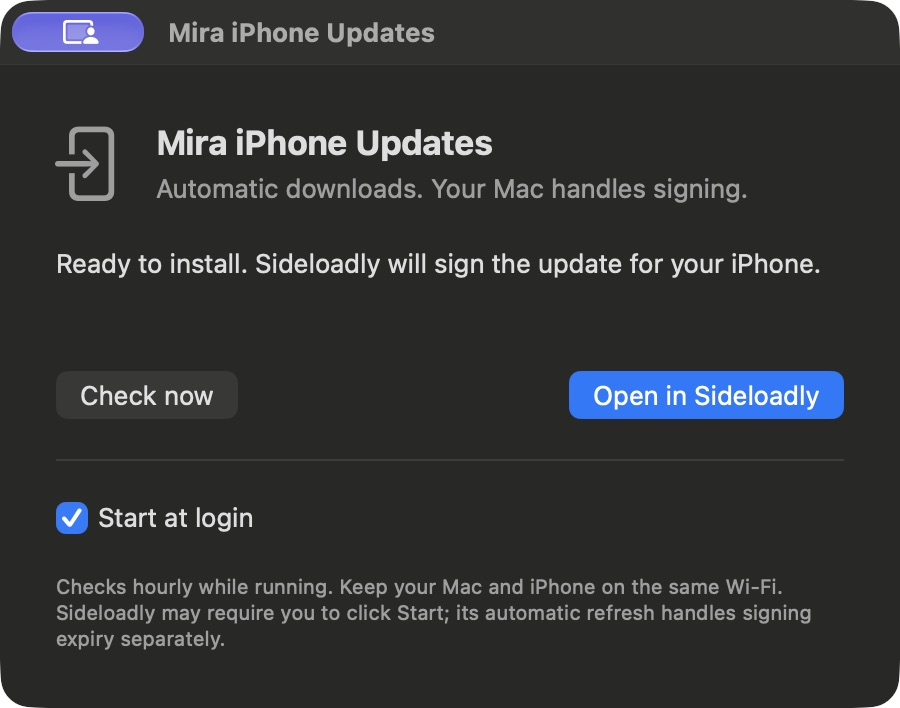
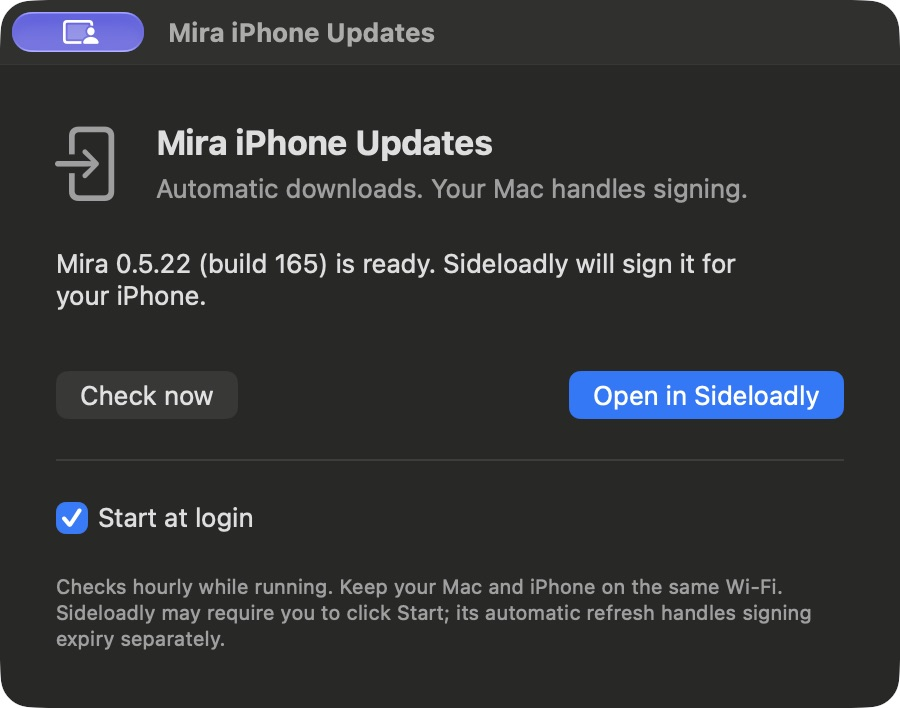
Verify internal IPA versions and correct mislabeled update metadata

Changed region(s): [[0.0622, 0.3418, 0.9022, 0.435]]

diff --git a/companion/MiraPhoneUpdates.swift b/companion/MiraPhoneUpdates.swift
@@ -17,7 +17,7 @@ import ServiceManagement
     }()
     private let folder = FileManager.default.urls(for:.applicationSupportDirectory,in:.userDomainMask)[0].appendingPathComponent("Mira Phone Updates",isDirectory:true)
     func check(force: Bool = false) async {
-        guard !busy else {return}; busy = true; defer {busy = false}
+        guard !busy else {return}; ready = nil; busy = true; defer {busy = false}
         do {
             let item = try await loadArtifact { url in
                 var request = URLRequest(url: url)
@@ -30,7 +30,8 @@ import ServiceManagement
             version=item.version
             let destination=folder.appendingPathComponent("Mira.ipa")
             let downloaded=UserDefaults.standard.integer(forKey:"downloadedBuild")
-            if downloaded > item.build {
+            let actualCachedBuild = await Task.detached { (try? readIPAIdentity(destination).build) ?? 0 }.value
+            if actualCachedBuild > item.build {
                 message="The channel lists an older build. Keeping your newer download; no downgrade was made."
                 return
             }
@@ -38,6 +39,7 @@ import ServiceManagement
                 try cachedDownloadMatches(destination, artifact: item, downloadedBuild: downloaded)
             }.value
             if matches {
+                try await Task.detached { try validateIPA(destination, artifact: item) }.value
                 ready=destination;message="Mira \(item.version) is downloaded and ready to install.";return
             }
             message="Downloading Mira \(item.version)…"
@@ -47,6 +49,7 @@ import ServiceManagement
             guard (downloadResponse as? HTTPURLResponse)?.statusCode == 200 else {throw URLError(.badServerResponse)}
             let actual=try await Task.detached {try checksum(temp)}.value
             guard actual == item.sha256.lowercased() else {throw NSError(domain:"Mira",code:2,userInfo:[NSLocalizedDescriptionKey:"The download checksum did not match. Nothing was installed."])}
+            try await Task.detached { try validateIPA(temp, artifact: item) }.value
             if let expected = item.size {
                 let bytes = try temp.resourceValues(forKeys: [.fileSizeKey]).fileSize
                 guard bytes == Int(expected) else { throw URLError(.badServerResponse) }
@@ -58,7 +61,7 @@ import ServiceManagement
             if FileManager.default.fileExists(atPath:destination.path) {_ = try FileManager.default.replaceItemAt(destination,withItemAt:staging)}
             else {try FileManager.default.moveItem(at:staging,to:destination)}
             UserDefaults.standard.set(item.build,forKey:"downloadedBuild")
-            ready=destination;message="Ready to install. Sideloadly will sign the update for your iPhone."
+            ready=destination;message="Mira \(item.version) (build \(item.build)) is ready. Sideloadly will sign it for your iPhone."
         } catch {message=error.localizedDescription}
     }
     func install() {

diff --git a/companion/UpdateFeed.swift b/companion/UpdateFeed.swift
@@ -58,6 +58,51 @@ func cachedDownloadMatches(_ file: URL, artifact: Artifact, downloadedBuild: Int
     }
     return try checksum(file) == artifact.sha256.lowercased()
 }
+
+struct IPAIdentity { let identifier: String; let build: Int; let version: String }
+private func zipOutput(_ arguments: [String]) throws -> Data {
+    let process = Process()
+    process.executableURL = URL(fileURLWithPath: "/usr/bin/unzip")
+    process.arguments = arguments
+    let pipe = Pipe()
+    process.standardOutput = pipe
+    process.standardError = FileHandle.nullDevice
+    try process.run()
+    var output = Data()
+    while let chunk = try pipe.fileHandleForReading.read(upToCount: 65536), !chunk.isEmpty {
+        output.append(chunk)
+        if output.count > 4 * 1024 * 1024 {
+            process.terminate(); process.waitUntilExit()
+            throw URLError(.cannotParseResponse)
+        }
+    }
+    process.waitUntilExit()
+    guard process.terminationStatus == 0 else { throw URLError(.cannotParseResponse) }
+    return output
+}
+func readIPAIdentity(_ file: URL) throws -> IPAIdentity {
+    let listing = try zipOutput(["-Z1", file.path])
+    let entries = String(decoding: listing, as: UTF8.self).split(separator: "\n").map(String.init).filter {
+        let parts = $0.split(separator: "/")
+        return parts.count == 3 && parts[0] == "Payload" && parts[1].hasSuffix(".app") && parts[2] == "Info.plist"
+    }
+    guard entries.count == 1 else { throw URLError(.cannotParseResponse) }
+    let data = try zipOutput(["-p", file.path, entries[0]])
+    let value = try PropertyListSerialization.propertyList(from: data, format: nil) as? [String: Any]
+    guard let identifier = value?["CFBundleIdentifier"] as? String,
+          let version = value?["CFBundleShortVersionString"] as? String,
+          let buildString = value?["CFBundleVersion"] as? String,
+          let build = Int(buildString), build > 0 else { throw URLError(.cannotParseResponse) }
+    return IPAIdentity(identifier: identifier, build: build, version: version)
+}
+func validateIPA(_ file: URL, artifact: Artifact) throws {
+    let identity = try readIPAIdentity(file)
+    guard identity.identifier == "com.nuvio.media", identity.build == artifact.build,
+          identity.version == artifact.version else {
+        throw NSError(domain: "Mira", code: 4, userInfo: [NSLocalizedDescriptionKey:
+            "The published IPA’s app identity or internal version disagrees with the update feed. Nothing was installed. Check again after the channel is corrected."])
+    }
+}
 func checksum(_ file: URL) throws -> String {
     let handle = try FileHandle(forReadingFrom:file); defer {try? handle.close()}
     var hash = SHA256()

diff --git a/companion/FeedChecks.swift b/companion/FeedChecks.swift
@@ -72,6 +72,32 @@ do {
     }
     fatalError("missing feed accepted")
 } catch { checks += 1 }
+let fixtureRoot = FileManager.default.temporaryDirectory.appendingPathComponent(UUID().uuidString)
+defer { try? FileManager.default.removeItem(at: fixtureRoot) }
+let contents = fixtureRoot.appendingPathComponent("Payload/Mira.app")
+try FileManager.default.createDirectory(at: contents, withIntermediateDirectories: true)
+let ipa = fixtureRoot.appendingPathComponent("fixture.ipa")
+func makeIPA(identifier: String = "com.nuvio.media", build: Int = 166, version: String = "0.5.21") throws {
+    try? FileManager.default.removeItem(at: ipa)
+    let data = try PropertyListSerialization.data(fromPropertyList: [
+        "CFBundleIdentifier": identifier, "CFBundleVersion": String(build),
+        "CFBundleShortVersionString": version
+    ], format: .binary, options: 0)
+    try data.write(to: contents.appendingPathComponent("Info.plist"))
+    let zip = Process(); zip.executableURL = URL(fileURLWithPath: "/usr/bin/zip")
+    zip.arguments = ["-q", "-r", ipa.path, "Payload"]; zip.currentDirectoryURL = fixtureRoot
+    try zip.run(); zip.waitUntilExit(); assert(zip.terminationStatus == 0)
+}
+try makeIPA()
+try validateIPA(ipa, artifact: artifact); checks += 1
+for value in [("com.other.app", 166, "0.5.21"), ("com.nuvio.media", 164, "0.5.21"), ("com.nuvio.media", 166, "0.5.19")] {
+    try makeIPA(identifier: value.0, build: value.1, version: value.2)
+    do { try validateIPA(ipa, artifact: artifact); fatalError("wrong IPA accepted") }
+    catch { checks += 1 }
+}
+try Data("not a ZIP".utf8).write(to: ipa)
+do { _ = try readIPAIdentity(ipa); fatalError("invalid archive accepted") }
+catch { checks += 1 }
 print("Passed \(checks) companion feed/checksum checks")
 }
 }

diff --git a/tools/check-release-channel.py b/tools/check-release-channel.py
@@ -4,6 +4,9 @@ import json
 import re
 import subprocess
 import tempfile
+import hashlib
+import plistlib
+import zipfile
 from pathlib import Path
 
 REPO = "4marawan001/Mira"
@@ -53,6 +56,23 @@ def main():
         artifact = feed["artifacts"][platform]
         verify_artifact(artifact, releases)
         print(f"Verified {platform}: {artifact['version']} / {artifact['build']}")
+    # Asset labels and even valid checksums cannot prove the app's internal version.
+    ios = feed["artifacts"]["ios"]
+    tag, name = ios["url"].rsplit("/", 2)[-2:]
+    with tempfile.TemporaryDirectory() as folder:
+        gh("release", "download", tag, "--repo", REPO, "--pattern", name, "--dir", folder)
+        package = Path(folder) / name
+        assert hashlib.sha256(package.read_bytes()).hexdigest() == ios["sha256"]
+        with zipfile.ZipFile(package) as archive:
+            entries = [n for n in archive.namelist() if len(n.split("/")) == 3
+                       and n.startswith("Payload/") and n.endswith(".app/Info.plist")]
+            assert len(entries) == 1, "Ambiguous IPA app identity"
+            assert archive.getinfo(entries[0]).file_size < 4 * 1024 * 1024
+            info = plistlib.loads(archive.read(entries[0]))
+            assert info["CFBundleIdentifier"] == "com.nuvio.media", "Wrong iPhone app"
+            assert str(info["CFBundleVersion"]) == str(ios["build"]), "IPA build number mismatch"
+            assert info["CFBundleShortVersionString"] == ios["version"], "IPA version mismatch"
+    print("Verified iPhone internal bundle identity and version")
     tv = feed["artifacts"]["firetv"]
     assert tv["url"].split("/")[-2] == latest["tag_name"], "Latest must contain the current TV APK"
     assert tv["url"].split("/")[-1] in names, "Latest TV asset is missing"

diff --git a/docs/AUDIT-2026-10-14.md b/docs/AUDIT-2026-10-14.md
@@ -2,16 +2,16 @@
 
 ## Fixed and live
 
-The screenshot’s “update channel has not been published yet” error came from GitHub Latest pointing at an IPA-only release without `mira-updates.json`. Restored TV v0.5.22 as Latest and verified the shared manifest against every referenced GitHub artifact’s SHA-256 digest and size, including both Mac architectures. The channel currently lists iPhone 166, Mac 165 and Fire TV 167.
+The screenshot’s “update channel has not been published yet” error came from GitHub Latest pointing at an IPA-only release without `mira-updates.json`. Restored TV v0.5.22 as Latest and verified the shared manifest against every referenced GitHub artifact’s SHA-256 digest and size, including both Mac architectures. The channel currently lists iPhone 165, Mac 165 and Fire TV 167.
 
-The rebuilt **Mira iPhone Updates helper 1.1.0 / 168** is universal ARM64/x86_64, macOS 13+. It:
+The rebuilt **Mira iPhone Updates helper 1.1.1 / 169** is universal ARM64/x86_64, macOS 13+. It:
 
 - Falls back to a published manifest if Latest has no manifest, excluding drafts, prereleases and untrusted locations.
-- Uses fresh network requests and rechecks cached IPA size/hash before offering installation.
-- Rejects incorrect download hashes, malformed feeds and older builds than its own newer cached download.
+- Uses fresh network requests and rechecks cached IPA size/hash before offering installation. It also reads the IPA’s internal bundle ID, version and build rather than trusting release labels.
+- Rejects incorrect download hashes, malformed feeds and older builds than its actually newer cached download.
 - Removes failed temporary downloads and verifies a new IPA before replacing the cached one.
 
-The helper was installed in Applications and opened on the development Mac. Its UI showed **Ready to install**, with Start at login still enabled. It did not trigger Sideloadly signing or install anything on the physical iPhone. [Helper ZIP](https://github.com/4marawan001/Mira/releases/download/v0.5.22/Mira-iPhone-Updates-macOS.zip) · [Source](../companion).
+The helper was installed in Applications and opened on the development Mac. Its UI showed **Ready to install**, with Start at login still enabled. It did not trigger Sideloadly signing or install anything on the physical iPhone. [Helper ZIP](https://github.com/4marawan001/Mira/releases/download/v0.5.22/Mira-iPhone-Updates-1.1.1-macOS.zip) · [Source](../companion).
 
 ## iPhone source fixes, pending a new IPA
 
@@ -25,7 +25,7 @@ The separate **v0.5.23** GitHub release’s IPA was inspected directly. It conta
[1 lines of base64/hex data omitted]
 ```
 
-Its build number is lower than the preceding iPhone 166 package. The old title and unmeasured “0ms” claims were corrected; the binary was not overwritten. If that package is already installed, keep it rather than switching solely because of the version table. Its source changes remain in the working checkout.
+A later direct inspection also found that the asset advertised as iPhone 166 in v0.5.21 actually contains **0.5.19 / build 164**, even though its SHA-256 matches the old manifest. The stable manifest now points at the verified v0.5.23 IPA with its actual **0.5.22 / 165** identity. This is why helper 1.1.1 validates the internal plist as well as the hash. The previous “166” label did not describe the binary. The old title and unmeasured “0ms” claims were corrected; the binary was not overwritten. If that package is already installed, keep it rather than switching solely because of the version table. Its source changes remain in the working checkout.
 
 The next iPhone source version is **0.5.24 / 168**, with the lookup retained and the cache/query fixes above. This is a **Debug simulator preview**, not a published Release IPA. Local development instructions require reviewing the preview before final IPA packaging. The audit does not label source changes as already installed on the physical phone.
 
@@ -38,13 +38,13 @@ The next iPhone source version is **0.5.24 / 168**, with the lookup retained and
 | iPhone production-logic harness | 118 passed, 0 failed | Catalog/parser/search paging, 1,200 synthetic results, startup/PIN routing, stream ranking/decoder policy, cache isolation and late responses. |
 | Mac selected regression suite | 53 passed, 0 failed | Quality modes, codec policy, static browsing migration, release feed and real temporary-app installer/rejection checks. |
 | Fire TV selected regression suite | 49 passed, 0 failed | Device-aware ranking, autoplay, focus, search concurrency/pagination and update verification. |
-| Mac helper | 21 passed, 0 failed | Feed validation, missing-Latest fallback, HTTP errors, checksum integrity and corrupt-cache rejection. |
+| Mac helper | 26 passed, 0 failed | Feed validation, missing-Latest fallback, HTTP errors, checksum integrity, corrupt-cache rejection and real ZIP/plist identity/version mismatch cases. |
 | Live helper feed | Passed | Trusted iPhone download/version read from restored feed. |
-| Shared channel validator | Passed | Every platform artifact digest/size and Latest TV APK checked. |
+| Shared channel validator | Passed | Every platform artifact digest/size, the Latest TV APK, and the downloaded IPA’s internal identity/version checked. |
 | Helper package | Passed | ARM64 + x86_64 executable, strict ad-hoc signature verification. |
 | Source archive and patch | Passed | 1,684 source files, 43 changes from build 155; ZIP integrity and applied-patch comparison. |
 
-Selected suites total **241 passing tests**. The lightweight iPhone harness compiles production logic with test transport/service stubs; it is not a full Compose UI, native playback or real-provider test. The actual Debug iPhone app (internal version 0.5.24 / 168) was also compiled and opened in the dedicated 375×812-point iPhone 12 mini simulator for visual checks. Home, Search and opening an ordinary person profile were checked; this does not establish complete provider results or physical-phone performance.
+Selected suites total **246 passing tests**. The lightweight iPhone harness compiles production logic with test transport/service stubs; it is not a full Compose UI, native playback or real-provider test. The actual Debug iPhone app (internal version 0.5.24 / 168) was also compiled and opened in the dedicated 375×812-point iPhone 12 mini simulator for visual checks. Home, Search and opening an ordinary person profile were checked; this does not establish complete provider results or physical-phone performance.
 
 ## Remaining checks and known issues
 

diff --git a/README.md b/README.md
@@ -3,7 +3,7 @@
 <p align="center">Your media, with room to breathe.</p>
 <p align="center">iPhone · Apple Silicon & Intel Mac · Fire TV</p>
 <p align="center">
-  <img src="https://img.shields.io/badge/iPhone-166-9fabbc?style=flat-square" alt="iPhone stable build 166" />
+  <img src="https://img.shields.io/badge/iPhone-165-9fabbc?style=flat-square" alt="iPhone stable build 165" />
   <img src="https://img.shields.io/badge/Mac-165-9fabbc?style=flat-square" alt="Mac build 165" />
   <img src="https://img.shields.io/badge/Fire_TV-167-9fabbc?style=flat-square" alt="Fire TV build 167" />
   <img src="https://img.shields.io/badge/status-personal_testing-242830?style=flat-square" alt="Personal testing builds" />
@@ -18,15 +18,15 @@
 
 | Device | Release package | Version | Setup |
 | --- | --- | --- | --- |
-| iPhone | [IPA](https://github.com/4marawan001/Mira/releases/download/v0.5.21/Mira-ios-166.ipa) | 0.5.21 / 166 | Sign with Sideloadly; iOS 16.1+. |
+| iPhone | [IPA](https://github.com/4marawan001/Mira/releases/download/v0.5.23/Mira.ipa) | 0.5.22 / 165 | Sign with Sideloadly; iOS 16.1+. |
 | Apple Silicon Mac | [ARM64 DMG](https://github.com/4marawan001/Mira/releases/download/v0.5.20/Mira-macOS-arm64.dmg) | 0.5.20 / 165 | macOS 12+. |
 | Intel Mac | [Intel DMG](https://github.com/4marawan001/Mira/releases/download/v0.5.20/Mira-macOS-x86_64.dmg) | 0.5.20 / 165 | macOS 12+. |
 | Fire TV | [Universal APK](https://github.com/4marawan001/Mira/releases/download/v0.5.22/Mira-FireTV-universal.apk) | 0.5.22 / 167 | Android-based Fire TV, API 24+. |
-| iPhone update helper for Mac | [Universal Mac ZIP](https://github.com/4marawan001/Mira/releases/download/v0.5.22/Mira-iPhone-Updates-macOS.zip) | Helper 1.1.0 / 168 | Apple Silicon or Intel; macOS 13+. |
+| iPhone update helper for Mac | [Universal Mac ZIP](https://github.com/4marawan001/Mira/releases/download/v0.5.22/Mira-iPhone-Updates-1.1.1-macOS.zip) | Helper 1.1.1 / 169 | Apple Silicon or Intel; macOS 13+. |
 
 Keep Mira installed when updating, and use the same signing identity to retain local data. Mac packages are ad-hoc signed, without Apple notarization. [Installation guide](docs/INSTALL.md) · [All releases](https://github.com/4marawan001/Mira/releases).
 
-**iPhone release correction:** the separate v0.5.23 release contains an IPA whose internal version is **0.5.22 / build 165**. Its title previously implied otherwise. It adds profile/search work but has a lower build number than 166. If you already use that package, keep it installed; do not downgrade solely to match this table. Its lookup changes remain in the working source. [Audit and next-package status](docs/AUDIT-2026-10-14.md).
+**iPhone version correction:** the current v0.5.23 download contains internal version **0.5.22 / build 165**. The earlier release advertised as 166 actually contains **0.5.19 / build 164**. The shared channel now uses the newest verified package, including its lookup changes. The next source version is 168, pending preview review. [Audit and package status](docs/AUDIT-2026-10-14.md).
 
 GitHub’s “Latest” points to the shared Fire TV release, which carries the update manifest for every platform. Platform versions can differ; use the table for downloads.
 
@@ -77,17 +77,17 @@ Build 167 bounds poster decoding, removes duplicate catalog presentation work an
 
 Mac checks on opening and hourly while running, verifies downloads with SHA-256, then provides **Install & Restart**. Fire TV uses its existing update/install confirmation flow.
 
-The optional Mac helper downloads a verified IPA and opens Sideloadly. Signing refresh and feature installation are separate; Sideloadly may still need you to click Start. The helper now recovers if a platform-only GitHub release temporarily becomes Latest without a manifest, checks cached IPA integrity, and prevents downgrading its own newer download.
+The optional Mac helper downloads a verified IPA and opens Sideloadly. Signing refresh and feature installation are separate; Sideloadly may still need you to click Start. The helper now recovers if a platform-only GitHub release temporarily becomes Latest without a manifest, checks cached IPA integrity and internal app version, and prevents downgrading an actually newer cached package.
 
 ![Mira iPhone Updates ready for Sideloadly](docs/assets/updater-ready.png)
 
-*Helper 1.1.0, verified on this Mac. It downloads an IPA; it cannot bypass iPhone signing requirements.*
+*Helper 1.1.1, verified on this Mac. It downloads an IPA; it cannot bypass iPhone signing requirements.*
 
 [Live update manifest](https://github.com/4marawan001/Mira/releases/latest/download/mira-updates.json) · [Publishing rules and channel check](docs/RELEASING.md).
 
 ## Checks and remaining device testing
 
-The October 14 audit passed **118 iPhone logic checks, 53 Mac checks, 49 Fire TV checks and 21 helper checks**. This includes synthetic pagination beyond 1,000 results, hardware-aware quality ranking, profile cache isolation, update verification and temporary-app Mac installer tests. These are selected regression suites, not a claim that every device path is tested.
+The October 14 audit passed **118 iPhone logic checks, 53 Mac checks, 49 Fire TV checks and 26 helper checks**. This includes synthetic pagination beyond 1,000 results, hardware-aware quality ranking, profile cache isolation, update verification and temporary-app Mac installer tests. These are selected regression suites, not a claim that every device path is tested.
 
 Earlier broad suites retain known failures: two vendored TV Media3 tests and five desktop tests recorded in previous reports. Physical Insignia playback/focus, Intel GUI behavior, real-provider iPhone seeking and sustained scrolling performance still need device checks. No measured 60fps or zero-lag claim is made. [Full audit status](docs/AUDIT-2026-10-14.md).
 

diff --git a/docs/INSTALL.md b/docs/INSTALL.md
@@ -1,6 +1,6 @@
 # Install Mira
 
-Use the device-specific [download table](../README.md#download). The shared channel currently lists iPhone 166, Mac 165 and Fire TV 167. The [audit](AUDIT-2026-10-14.md) explains the separate iPhone v0.5.23 package’s incorrect build numbering; keep that package installed if you already use its profile/search changes.
+Use the device-specific [download table](../README.md#download). The shared channel currently lists iPhone 165, Mac 165 and Fire TV 167. The [audit](AUDIT-2026-10-14.md) explains the corrected iPhone version labels and the next preview.
 
 ## iPhone
 
@@ -13,12 +13,12 @@ The IPA is an unsigned Release package for sideload signing and requires iOS 16.
 
 ### Optional update helper
 
-1. Download [Mira-iPhone-Updates-macOS.zip](https://github.com/4marawan001/Mira/releases/download/v0.5.22/Mira-iPhone-Updates-macOS.zip).
+1. Download [Mira-iPhone-Updates-1.1.1-macOS.zip](https://github.com/4marawan001/Mira/releases/download/v0.5.22/Mira-iPhone-Updates-1.1.1-macOS.zip).
 2. Extract it and put **Mira iPhone Updates.app** in Applications. Quit any older copy first.
 3. Open it, then choose **Check now**. The download is checked against the feed’s SHA-256 and size.
 4. Choose **Open in Sideloadly**, confirm the correct IPA/version, and start installation.
 
-Helper 1.1.0 supports Intel and Apple Silicon on macOS 13+. Start at login is optional. The helper checks hourly while running. Sideloadly may require interaction; the helper does not remove signing limits.
+Helper 1.1.1 supports Intel and Apple Silicon on macOS 13+. Start at login is optional. The helper checks hourly while running. Sideloadly may require interaction; the helper does not remove signing limits.
 
 If the old helper says the update channel has not been published, replace it with this version and retry. The shared feed has been restored. If multiple helper copies open, quit them and launch the copy in Applications.
 

diff --git a/docs/RELEASING.md b/docs/RELEASING.md
@@ -30,7 +30,7 @@ Run this read-only check after publishing:
 python3 tools/check-release-channel.py
 ```
 
-It requires GitHub CLI (`gh`) authenticated to an account that can read the repository. It checks the shared feed, all platform asset hashes/sizes, Mac architecture entries, and the Latest TV APK. A [workflow template](../tools/check-update-channel.workflow.yml) is included. The current GitHub OAuth login lacks the workflow permission needed to install it under `.github/workflows`, so it is not enabled. Run the script manually for now. With a suitably authorized GitHub login, copy the template to `.github/workflows/check-update-channel.yml`; it reports failures and never alters releases.
+It requires GitHub CLI (`gh`) authenticated to an account that can read the repository. It checks the shared feed, all platform asset hashes/sizes, Mac architecture entries, the Latest TV APK, and the iPhone IPA’s internal bundle ID/version/build. The IPA is downloaded temporarily and removed after the check. A [workflow template](../tools/check-update-channel.workflow.yml) is included. The current GitHub OAuth login lacks the workflow permission needed to install it under `.github/workflows`, so it is not enabled. Run the script manually for now. With a suitably authorized GitHub login, copy the template to `.github/workflows/check-update-channel.yml`; it reports failures and never alters releases.
 
 ## Update helper
 
